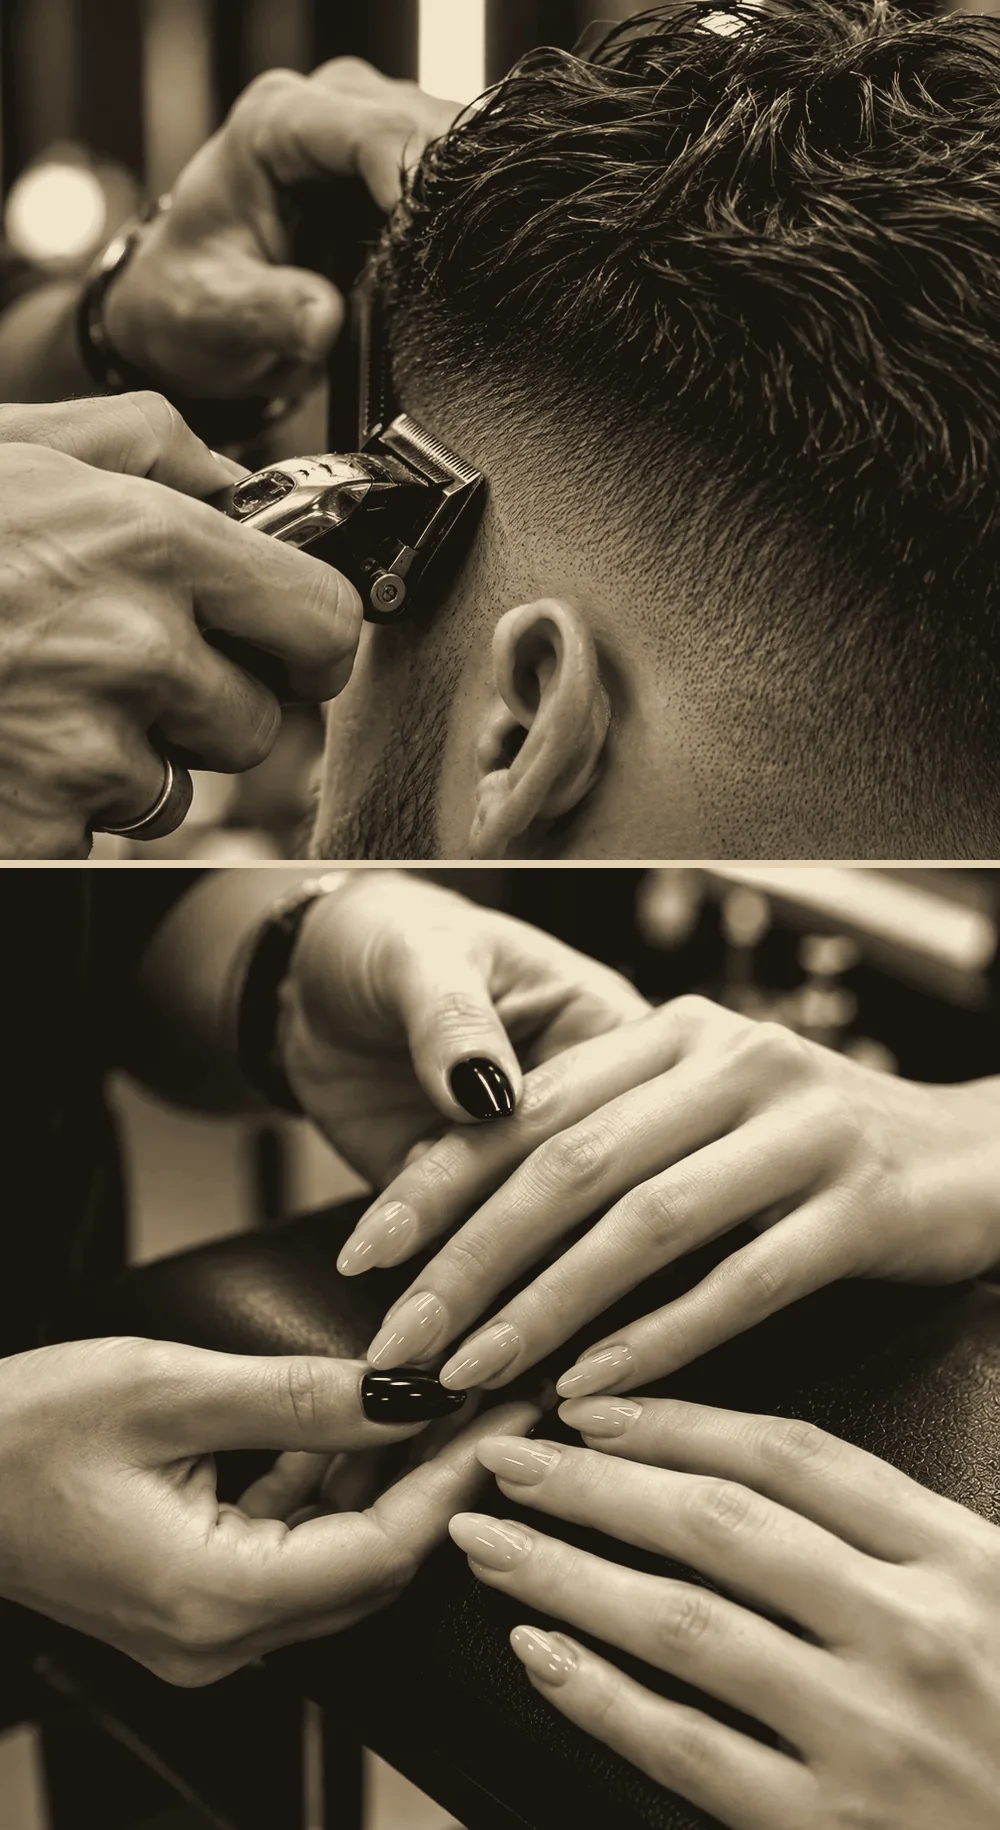
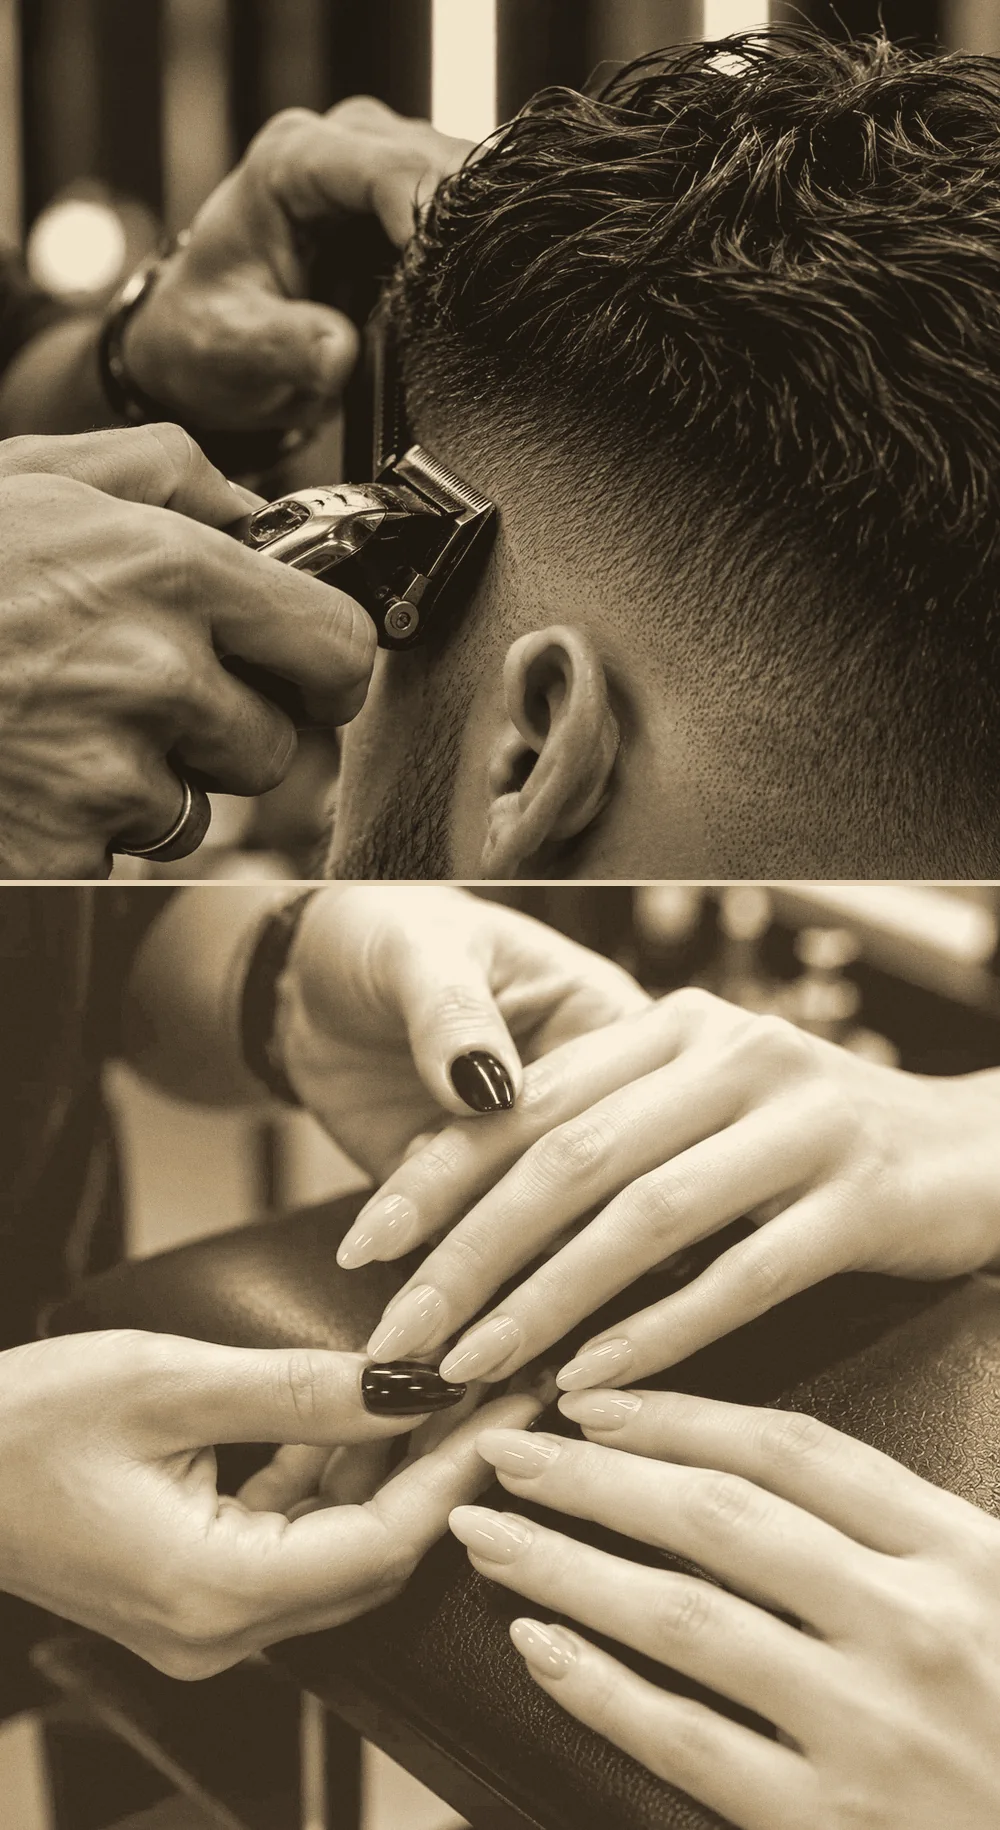
feat: hero – H1 Barber & Nail Salon Praha 2, světlejší fotka s viditelnými nehty, sticky CTA se skryje, když je na obrazovce jiné CTA

diff --git a/css/style.css b/css/style.css
@@ -795,27 +795,30 @@ h1, h2, h3, .svc-name, .opt h3 { overflow-wrap: break-word; }
 /* ---------- home hero: heading face closer to the logo (squared, heavy) – hero only ---------- */
 .hero-title { font-family: 'Russo One', var(--head); font-weight: 400; letter-spacing: .005em; }
 
-/* ---------- home hero on phones/tablets: full-bleed beige-graded photo (barber + nails, no faces) ---------- */
+/* ---------- home hero on phones/tablets: full-bleed beige-graded photo (barber on top, nails below – no faces) ---------- */
 .hero-mobile-bg { display: none; }
 @media (max-width: 959px) {
-  .hero--blobs { --hero-h: calc(100svh - var(--header-h) - var(--bar-h)); padding: 0; background: var(--cream); }
+  .hero--blobs { --hero-h: max(calc(100svh - var(--header-h) - var(--bar-h)), 580px); padding: 0; background: var(--cream); }
   .hero--blobs::before, .hero--blobs::after { display: none; }
-  .hero-mobile-bg { display: block; position: absolute; top: 0; left: 0; right: 0; height: max(var(--hero-h), 560px); z-index: -1; background: #18140f; }
-  .hero-mobile-bg img { width: 100%; height: 100%; object-fit: cover; object-position: 50% 20%; }
-  .hero-mobile-bg::after { content: ''; position: absolute; inset: 0; background: linear-gradient(180deg, rgba(21, 19, 15, .10) 0%, rgba(21, 19, 15, 0) 22%, rgba(21, 19, 15, .5) 58%, rgba(21, 19, 15, .92) 100%); }
+  .hero-mobile-bg { display: block; position: absolute; top: 0; left: 0; right: 0; height: var(--hero-h); z-index: -1; background: #18140f; }
+  .hero-mobile-bg img { width: 100%; height: 100%; object-fit: cover; object-position: 50% 0; }
+  .hero-mobile-bg::after { content: ''; position: absolute; inset: 0; background: linear-gradient(180deg, rgba(21, 19, 15, .72) 0%, rgba(21, 19, 15, .28) 20%, rgba(21, 19, 15, 0) 34%, rgba(21, 19, 15, 0) 70%, rgba(21, 19, 15, .86) 100%); }
   .hero--blobs .hero-grid { gap: 0; align-items: stretch; }
-  .hero--blobs .hero-copy { min-height: max(var(--hero-h), 560px); display: flex; flex-direction: column; justify-content: flex-end; padding-bottom: 28px; color: #f6edda; }
-  .hero--blobs .hero-copy .eyebrow { color: #e3d1b3; margin-bottom: 14px; }
-  .hero--blobs .hero-title { font-size: clamp(2.3rem, 11.6vw, 4.6rem); line-height: 1.04; text-transform: uppercase; color: #fff; }
-  .hero--blobs .hero-title .line:nth-child(n+2) { display: inline; overflow: visible; margin: 0; padding: 0; font-size: .42em; color: #e3d1b3; letter-spacing: .06em; }
-  .hero--blobs .hero-title .line:nth-child(2) > span, .hero--blobs .hero-title .line:nth-child(3) > span { display: inline; }
-  .hero--blobs .hero-title .line:nth-child(2)::after { content: ' '; }
+  .hero--blobs .hero-copy { min-height: var(--hero-h); display: flex; flex-direction: column; padding: 22px 0 22px; color: #f6edda; }
+  .hero--blobs .hero-copy .eyebrow { display: none; }
+  .hero--blobs .hero-title { font-size: clamp(2.2rem, 10.6vw, 4.4rem); line-height: 1.04; text-transform: uppercase; color: #fff; text-shadow: 0 2px 18px rgba(21, 19, 15, .45); }
   .hero--blobs .hero-copy .lead, .hero--blobs .hero-copy .hero-addr, .hero--blobs .hero-copy .text-link { display: none; }
-  .hero--blobs .hero-copy .btn-row { margin-top: 18px; display: grid; grid-template-columns: 1.6fr 1fr; gap: 10px; }
+  .hero--blobs .hero-copy .btn-row { margin-top: auto; display: grid; grid-template-columns: 1.6fr 1fr; gap: 10px; }
   .hero--blobs .hero-copy .btn-row .btn { width: 100%; padding-inline: 12px; }
   .hero--blobs .hero-copy .btn--book { background: #fff; color: #000; }
-  .hero--blobs .hero-copy .btn--ghost { color: #fff; border-color: rgba(255, 255, 255, .65); background: rgba(21, 19, 15, .35); }
+  .hero--blobs .hero-copy .btn--ghost { color: #fff; border-color: rgba(255, 255, 255, .7); background: rgba(21, 19, 15, .45); }
+  .hero--blobs .hero-title .mbr { display: block; }
   .hero--blobs .hero-photos { display: none; }
   .hero--blobs .hero-side { padding-block: 28px 44px; }
   .hero--blobs .hero-side .hero-card { margin: 0; }
 }
+
+/* ---------- sticky order bar slides away while an in-page CTA is on screen (js/cta.js) ---------- */
+.sticky-cta { transition: transform .28s var(--ease), visibility 0s linear 0s; }
+.sticky-cta.is-away { transform: translateY(105%); visibility: hidden; transition: transform .28s var(--ease), visibility 0s linear .28s; }
+@media (prefers-reduced-motion: reduce) { .sticky-cta, .sticky-cta.is-away { transition: none; } }

diff --git a/js/cta.js b/js/cta.js
@@ -23,4 +23,19 @@
       lang: document.body.dataset.lang || 'cs',
     });
   });
+
+  // Sticky bar (phones/tablets): hide it while a book/call button from the page itself is visible, show it when none is.
+  // Header, the bar itself and the mobile menu do not count – the header buttons are always on screen.
+  const bar = document.querySelector('[data-sticky-cta]');
+  if (bar && 'IntersectionObserver' in window) {
+    const targets = [...document.querySelectorAll('a[data-track="click_book"], a[data-track="click_call"]')]
+      .filter((a) => !a.closest('.site-header, .sticky-cta, .mobile-nav'));
+    const visible = new Set();
+    const sync = () => bar.classList.toggle('is-away', visible.size > 0);
+    const io = new IntersectionObserver((entries) => {
+      entries.forEach((en) => (en.isIntersecting ? visible.add(en.target) : visible.delete(en.target)));
+      sync();
+    }, { rootMargin: '-72px 0px -64px 0px', threshold: 0.6 });
+    targets.forEach((a) => io.observe(a));
+  }
 })();

diff --git a/index.html b/index.html
@@ -111,10 +111,9 @@
     <div class="wrap hero-grid">
       <div class="hero-copy">
         <p class="eyebrow" data-hero>ICONO STUDIO · BĚLEHRADSKÁ 77</p>
-        <h1 class="hero-title" aria-label="Barber &amp; Nail Salon Praha 2 u I. P. Pavlova">
-          <span class="line" aria-hidden="true"><span>Barber &amp; Nail Salon</span></span>
-          <span class="line" aria-hidden="true"><span>Praha 2,</span></span>
-          <span class="line" aria-hidden="true"><span>u I. P. Pavlova</span></span>
+        <h1 class="hero-title" aria-label="Barber &amp; Nail Salon Praha 2">
+          <span class="line" aria-hidden="true"><span>Barber &amp; <span class="mbr"></span>Nail Salon</span></span>
+          <span class="line" aria-hidden="true"><span>Praha 2</span></span>
         </h1>
         <p class="lead" data-hero>Nehtové studio a barbershop na jednom místě: manikúra, gelové nehty, pedikúra, řasy, obočí, pánské střihy a úprava vousů.</p>
         <div class="btn-row" data-hero>

diff --git a/en/index.html b/en/index.html
@@ -111,10 +111,9 @@
     <div class="wrap hero-grid">
       <div class="hero-copy">
         <p class="eyebrow" data-hero>ICONO STUDIO · BĚLEHRADSKÁ 77</p>
-        <h1 class="hero-title" aria-label="Barber &amp; Nail Salon Prague 2 near I. P. Pavlova">
-          <span class="line" aria-hidden="true"><span>Barber &amp; Nail Salon</span></span>
-          <span class="line" aria-hidden="true"><span>Prague 2,</span></span>
-          <span class="line" aria-hidden="true"><span>near I. P. Pavlova</span></span>
+        <h1 class="hero-title" aria-label="Barber &amp; Nail Salon Prague 2">
+          <span class="line" aria-hidden="true"><span>Barber &amp; <span class="mbr"></span>Nail Salon</span></span>
+          <span class="line" aria-hidden="true"><span>Prague 2</span></span>
         </h1>
         <p class="lead" data-hero>Nail studio and barbershop in one place: manicure, gel nails, pedicure, lashes, brows, men's haircuts and beard trims.</p>
         <div class="btn-row" data-hero>

diff --git a/de/index.html b/de/index.html
@@ -111,10 +111,9 @@
     <div class="wrap hero-grid">
       <div class="hero-copy">
         <p class="eyebrow" data-hero>ICONO STUDIO · BĚLEHRADSKÁ 77</p>
-        <h1 class="hero-title" aria-label="Barber &amp; Nail Salon Prag 2 bei I. P. Pavlova">
-          <span class="line" aria-hidden="true"><span>Barber &amp; Nail Salon</span></span>
-          <span class="line" aria-hidden="true"><span>Prag 2,</span></span>
-          <span class="line" aria-hidden="true"><span>bei I. P. Pavlova</span></span>
+        <h1 class="hero-title" aria-label="Barber &amp; Nail Salon Prag 2">
+          <span class="line" aria-hidden="true"><span>Barber &amp; <span class="mbr"></span>Nail Salon</span></span>
+          <span class="line" aria-hidden="true"><span>Prag 2</span></span>
         </h1>
         <p class="lead" data-hero>Nagelstudio und Barbershop an einem Ort: Maniküre, Gelnägel, Pediküre, Wimpern, Augenbrauen, Herrenschnitte und Bartpflege.</p>
         <div class="btn-row" data-hero>

diff --git a/scripts/make_hero_mobile.py b/scripts/make_hero_mobile.py
@@ -1,16 +1,18 @@
-"""Mobile home-hero image: barber (clippers, no face) over nails (hands), both graded to the beige duotone.
+"""Mobile home-hero image: barber (clippers, no face) over nails (hands), graded to a warm beige duotone with a little grain.
    Sources are the studio's own photos; run:  python3 scripts/make_hero_mobile.py   → images/hero-mobile-{640,1000}.webp"""
-from PIL import Image, ImageOps, ImageEnhance
+from PIL import Image, ImageOps, ImageEnhance, ImageChops
 import os
 ROOT = os.path.join(os.path.dirname(__file__), '..')
-W, H, GAP = 1000, 1830, 8
-TOP_H = 860
-INK, MID, LIGHT, CREAM = (24, 20, 15), (148, 128, 98), (241, 228, 204), (227, 209, 179)
+W, H, GAP = 1000, 1830, 6
+TOP_H = 880
+CREAM = (227, 209, 179)
 
-def duo(im):
+def duo(im, black, mid, white, gamma=1.0):
     g = ImageOps.autocontrast(ImageOps.grayscale(im), cutoff=1)
-    g = ImageEnhance.Contrast(g).enhance(1.08)
-    return ImageOps.colorize(g, black=INK, white=LIGHT, mid=MID).convert('RGB')
+    if gamma != 1.0:
+        g = g.point(lambda v: int(255 * (v / 255) ** gamma))
+    g = ImageEnhance.Contrast(g).enhance(1.06)
+    return ImageOps.colorize(g, black=black, white=white, mid=mid).convert('RGB')
 
 def crop_to(im, box, size):
     return im.crop(box).resize(size, Image.LANCZOS)
@@ -18,15 +20,21 @@ def crop_to(im, box, size):
 barber = Image.open(os.path.join(ROOT, 'images/source/barber-original.webp')).convert('RGB')
 nails = Image.open(os.path.join(ROOT, 'images/source/nails-original.webp')).convert('RGB')
 bw, bh = barber.size
-# barber: hair, fade, ear and clippers – cut above the jaw/beard
-top = crop_to(barber, (int(bw * .10), int(bh * .03), bw, int(bh * .03) + int((bw * .90) * TOP_H / W)), (W, TOP_H))
+bx0 = int(bw * .08)
+top = crop_to(barber, (bx0, 0, bw, int((bw - bx0) * TOP_H / W)), (W, TOP_H))
 bot_h = H - TOP_H - GAP
 nw, nh = nails.size
-bot = crop_to(nails, (0, int(nh * .14), nw, int(nh * .14) + int(nw * bot_h / W)), (W, bot_h))
+bot = crop_to(nails, (0, int(nh * .16), nw, int(nh * .16) + int(nw * bot_h / W)), (W, bot_h))
+# barber: deep warm brown → light beige; nails: lifted shadows so the nails read clearly
+top = duo(top, (30, 24, 17), (150, 128, 96), (242, 229, 205))
+bot = duo(bot, (58, 46, 33), (178, 152, 114), (250, 240, 221), gamma=0.7)
 canvas = Image.new('RGB', (W, H), CREAM)
-canvas.paste(duo(top), (0, 0))
-canvas.paste(duo(bot), (0, TOP_H + GAP))
+canvas.paste(top, (0, 0))
+canvas.paste(bot, (0, TOP_H + GAP))
+# fine film grain
+noise = Image.effect_noise((W, H), 22).convert('RGB')
+canvas = Image.blend(canvas, ImageChops.soft_light(canvas, noise), 0.35)
 out = os.path.join(ROOT, 'images')
 canvas.save(os.path.join(out, 'hero-mobile-1000.webp'), quality=84, method=6)
-canvas.resize((640, 1171), Image.LANCZOS).save(os.path.join(out, 'hero-mobile-640.webp'), quality=84, method=6)
+canvas.resize((640, round(640 * H / W)), Image.LANCZOS).save(os.path.join(out, 'hero-mobile-640.webp'), quality=84, method=6)
 print('Wrote images/hero-mobile-{640,1000}.webp')
